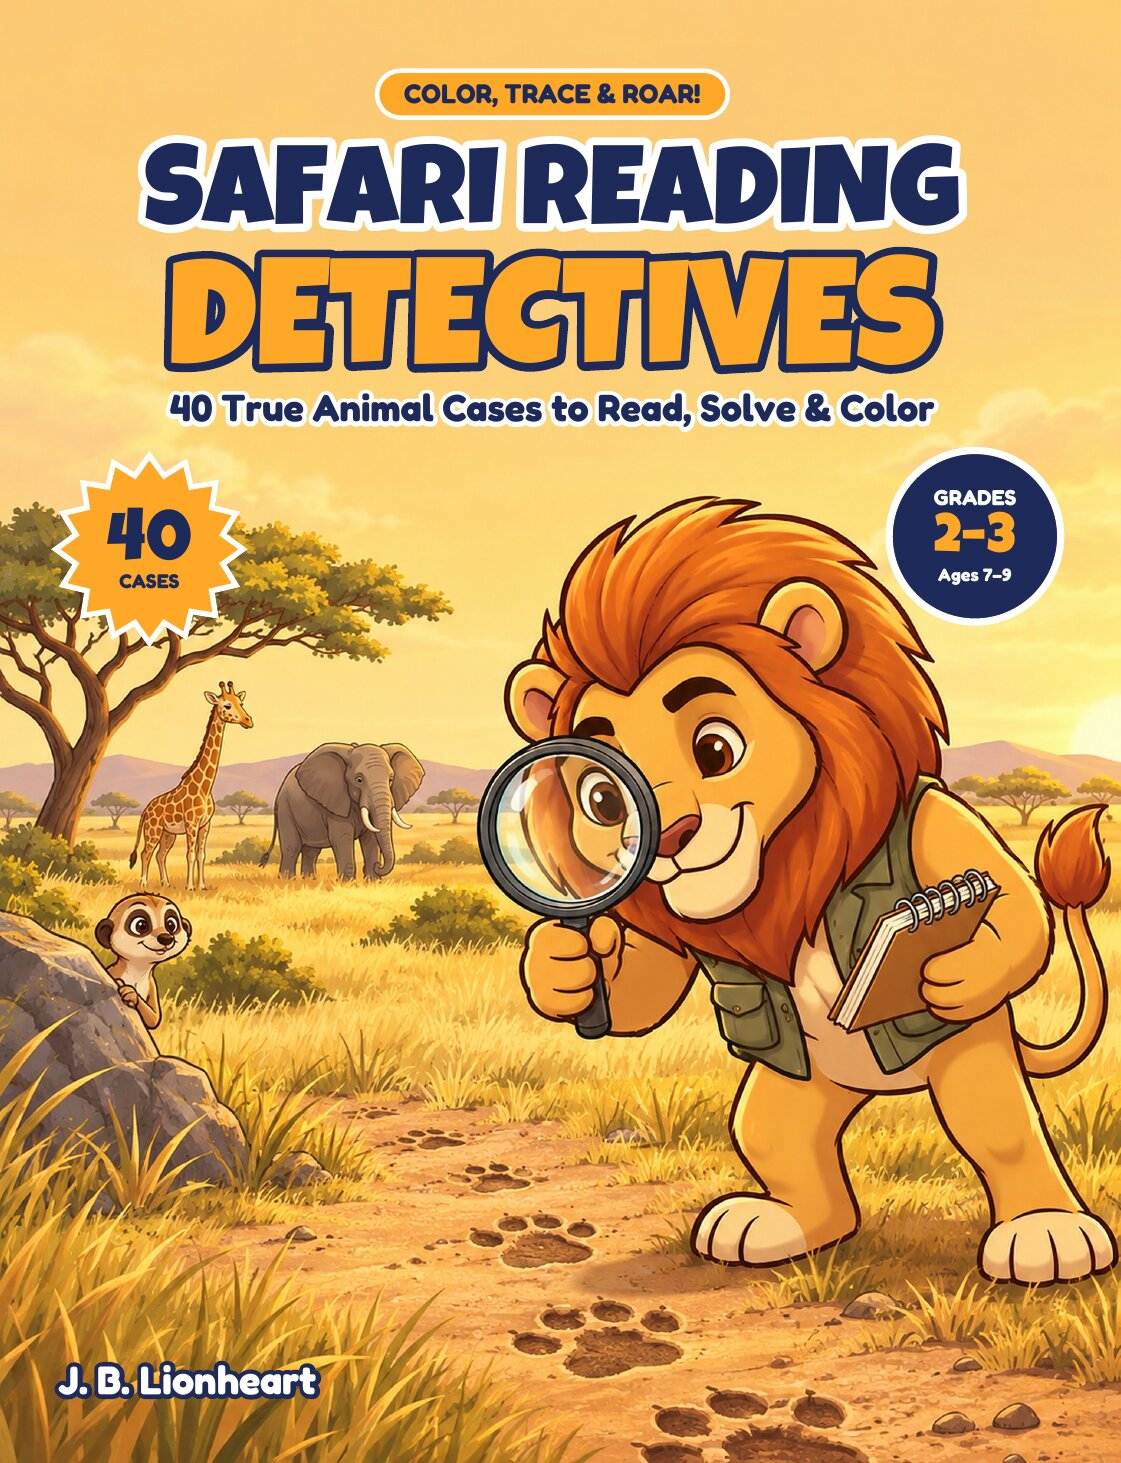
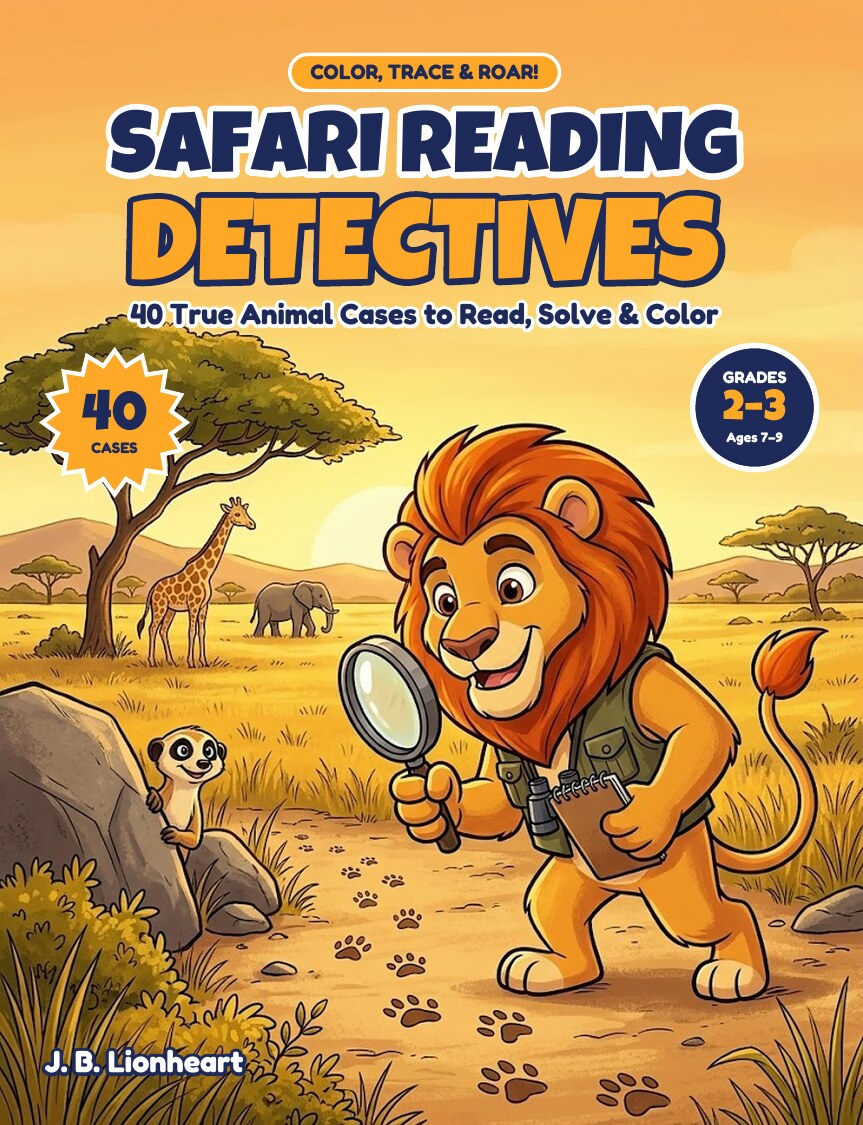
Update Reading Detectives cover; add Safari Math Detectives (coming soon)
- Reading Detectives: front cover cut from the owner's new wraparound
  cover image (Safari_Reading_Detectives_Cover_Preview.png)
- Safari Math Detectives (Book 6, Grades 2-3, 141 pages): cover and
  Case 1 pages (Case File, Solve the Case, Feather Measuring) rendered
  from its PDFs; wording from the back cover and For Grown-ups page
- Sitemap entry and tests

diff --git a/src/lib/site.ts b/src/lib/site.ts
@@ -19,6 +19,10 @@ import timesCover from "@/assets/times-table-cover.jpg";
 import timesMeet from "@/assets/times-table-meet-the-facts.jpg";
 import timesMaze from "@/assets/times-table-skip-count-maze.jpg";
 import timesCode from "@/assets/times-table-crack-the-code.jpg";
+import mathCover from "@/assets/math-detectives-cover.jpg";
+import mathCaseFile from "@/assets/math-detectives-case-file.jpg";
+import mathSolve from "@/assets/math-detectives-solve-the-case.jpg";
+import mathMeasure from "@/assets/math-detectives-feather-measuring.jpg";
 
 export const SITE_URL = "https://lionheart-books-literacy.vercel.app";
 export const EMAIL = "jblionheartbooks@gmail.com";
@@ -187,7 +191,7 @@ export const books: [Book, Book, Book] = [
 export type UpcomingBook = Pick<
   Book,
   "title" | "short" | "ages" | "goal" | "tagline" | "description" | "facts" | "parentBenefits" | "teacherBenefits" | "pages" | "cover" | "previews" | "faqs"
-> & { slug: "safari-reading-detectives" | "times-table-safari"; status: "coming-soon" };
+> & { slug: "safari-reading-detectives" | "times-table-safari" | "safari-math-detectives"; status: "coming-soon" };
 
 export const comingSoon: UpcomingBook[] = [
   {
@@ -271,6 +275,47 @@ export const comingSoon: UpcomingBook[] = [
       { q: "What grade is Times Table Safari for?", a: "Grades 3–4 (ages 8–10). Third graders in North Carolina are expected to multiply fluently with factors up to 10, and this book gives practice in those skills." },
       { q: "When can I buy it?", a: "It's coming soon. Paperback and digital links will appear on this page as soon as it's available." },
       { q: "How long does it take?", a: "One page a day, about 10–15 minutes, finishes the book in about 12 weeks." },
+    ],
+  },
+  {
+    slug: "safari-math-detectives",
+    status: "coming-soon",
+    title: "Safari Math Detectives",
+    short: "Safari Math Detectives",
+    ages: "Grades 2–3 · Ages 7–9",
+    goal: "Solve math word problems",
+    tagline: "Find the clues. Do the math! 40 true animal cases to solve with math.",
+    description:
+      "Join Rory the lion on 40 math cases built on true animal facts, from ostrich eggs to orb-weaver webs. Kids use a simple 4-step method (clues, question, plan, solve & check) to crack word problems, then finish each case with a hands-on Detective Activity.",
+    facts: [
+      "40 cases in 8 units: a Case File, Solve the Case and a Detective Activity",
+      "Add, subtract, place value, multiply and divide",
+      "Time, money, measuring, graphs, area and fractions",
+      "Real clocks, coins, rulers, arrays and number lines",
+      "A Detective Review after every unit",
+      "Answer key, math tool kit and a certificate",
+    ],
+    parentBenefits: [
+      "A simple 4-step method: clues, question, plan, solve & check",
+      "Read each case aloud together and praise the plan, not just the answer",
+      "A math tool kit with a number line, hundreds chart, arrays and bar models",
+    ],
+    teacherBenefits: [
+      "Units 1–4 practice second-grade skills and stretch into third grade; Units 5–8 practice third-grade skills",
+      "Practice in the math skills North Carolina students are tested on, with the standards listed for each unit",
+      "Four multiple-choice questions and a written problem in every case",
+    ],
+    pages: "141 pages",
+    cover: mathCover,
+    previews: [
+      { src: mathCaseFile, alt: "Safari Math Detectives Case 1, The Ostrich Egg Line: true ostrich facts, a word problem and boxes for clues, question, plan, and solve and check" },
+      { src: mathSolve, alt: "Safari Math Detectives Solve the Case page: four multiple-choice word problems and a two-step problem about ostriches" },
+      { src: mathMeasure, alt: "Safari Math Detectives Feather Measuring activity: measure four feathers with an inch ruler and answer questions" },
+    ],
+    faqs: [
+      { q: "What grade is Safari Math Detectives for?", a: "Grades 2–3 (ages 7–9). Units 1–4 practice second-grade skills and stretch into third grade; Units 5–8 practice third-grade skills." },
+      { q: "When can I buy it?", a: "It's coming soon. Paperback and digital links will appear on this page as soon as it's available." },
+      { q: "How should I print the measuring pages?", a: "Print or copy them at 100% size so the lines match a real ruler." },
     ],
   },
 ];

diff --git a/src/test/coming-soon.test.ts b/src/test/coming-soon.test.ts
@@ -32,6 +32,14 @@ describe("coming-soon books", () => {
     }
   });
 
+  it("lists Safari Math Detectives as coming soon from its PDFs", () => {
+    expect(getUpcomingBook("safari-math-detectives")).toMatchObject({ status: "coming-soon", ages: "Grades 2–3 · Ages 7–9", pages: "141 pages" });
+    expect(getBook("safari-math-detectives")).toBeUndefined();
+    for (const f of ["math-detectives-cover.jpg", "math-detectives-case-file.jpg", "math-detectives-solve-the-case.jpg", "math-detectives-feather-measuring.jpg"]) {
+      expect(existsSync(path.join(process.cwd(), "src/assets", f))).toBe(true);
+    }
+  });
+
   it("has its own book page", () => {
     const router = createRouter({ routeTree, context: { queryClient: new QueryClient() } });
     for (const b of comingSoon) expect(router.matchRoutes(`/books/${b.slug}`).at(-1)?.routeId).toBe("/books/$slug");
